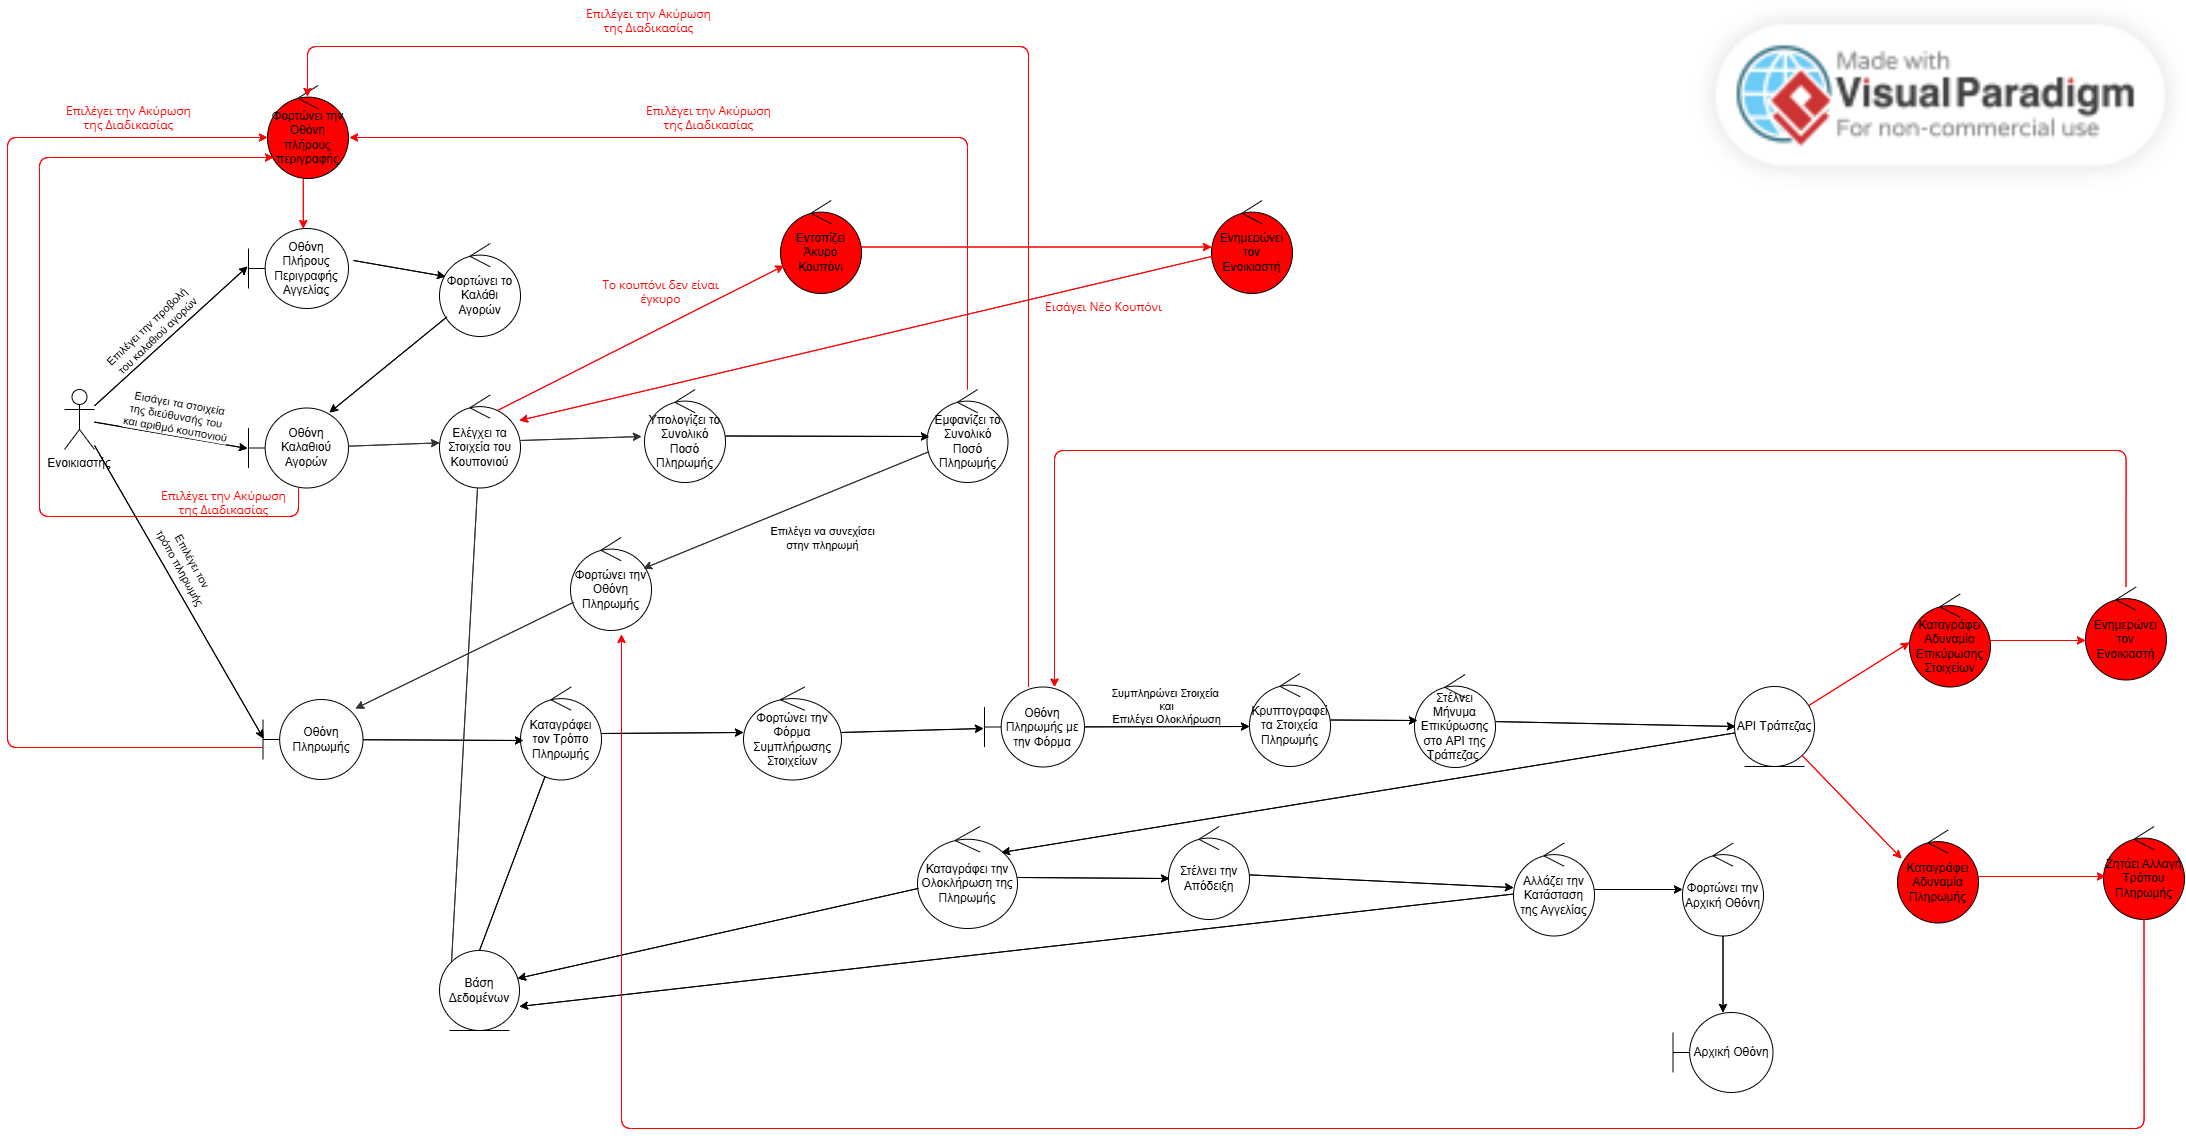
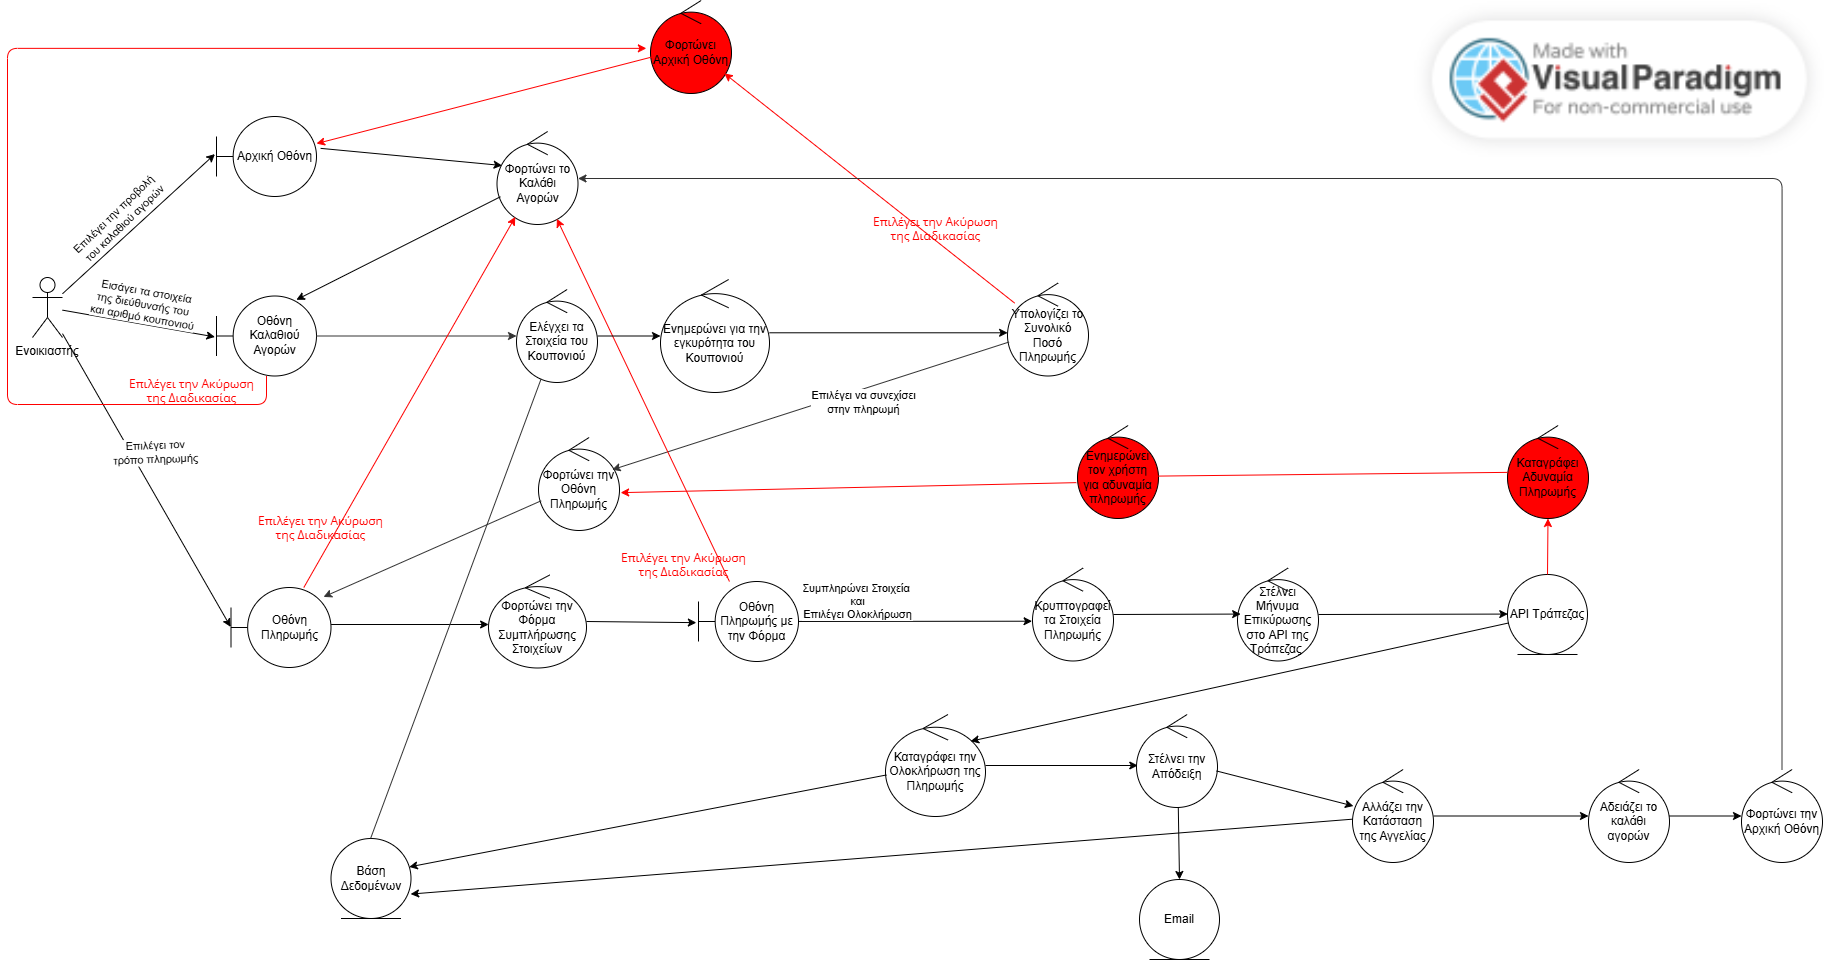
Changes and final payment

diff --git a/v0.3/UC_Payment/use_case.md b/v0.3/UC_Payment/use_case.md
@@ -1,35 +1,31 @@
 Περίπτωση Χρήσης 3: Πληρωμή
 
 Βήματα Happy Path:
-1. Ο ενοικιαστής επιλέγει την προβολή του καλαθιού αγορών
-2. Το σύστημα μεταβιβάζει τον ενοικιαστή στο καλάθι αγορών
-3. Ο ενοικιαστής συμπληρώνει τη διεύθυνσή του και αριθμό κουπονιού
-4. Το σύστημα ελέγχει τα στοιχεία του κουπονιού στη βάση δεδομένων
-5. Το σύστημα υπολογίζει και εμφανίζει το συνολικό ποσό συμπεριλαμβανομένου του κουπουνιού και των εξόδων αποστολής
-6. Ο ενοικιαστής επιλέγει τη συνέχεια προς πληρωμή
-7. Το σύστημα μεταβιβάζει τον χρήστη στην πληρωμή και εμφανίζει επιλογές πληρωμής
-8. Ο ενοικιαστής επιλέγει τον τρόπο πληρωμής
-9. Το σύστημα καταγράφει τον τρόπο που επέλεξε ο χρήστης στη βάση δεδομένων
-10. Το σύστημα εμφανίζει στον χρήστη τη φόρμα συμπλήρωσης των στοιχείων της κάρτας του
+1.  Ο ενοικιαστής επιλέγει την προβολή του καλαθιού αγορών
+2.  Το σύστημα μεταβιβάζει τον ενοικιαστή στο καλάθι αγορών
+3.  Ο ενοικιαστής συμπληρώνει τη διεύθυνσή του και αριθμό κουπονιού
+4.  Το σύστημα ελέγχει τα στοιχεία του κουπονιού στη βάση δεδομένων
+5.  Το σύστημα ενημερώνει τον ενοικιαστή για την εγκυρότητα του κουπονιού
+6.  Το σύστημα υπολογίζει το συνολικό ποσό συμπεριλαμβανομένου του κουπουνιού και των εξόδων αποστολής
+7.  Ο ενοικιαστής επιλέγει τη συνέχεια προς πληρωμή
+8.  Το σύστημα μεταβιβάζει τον χρήστη στην πληρωμή και εμφανίζει επιλογές πληρωμής
+9.  Ο ενοικιαστής επιλέγει τον τρόπο πληρωμής
+10. Το σύστημα εμφανίζει στον χρήστη τη φόρμα συμπλήρωσης των στοιχείων του
 11. Ο ενοικιαστής συμπληρώνει τα στοιχεία του και επιλέγει ολοκλήρωση
 12. Το σύστημα κρυπτογραφεί τα στοιχεία πληρωμής
 13. Το σύστημα στέλνει αίτημα επικύρωσης στο API της τράπεζας με τα στοιχεία συναλλαγής
 14. Το σύστημα καταγράφει στη βάση δεδομένων την ολοκλήρωση της πληρωμής
 15. Το σύστημα στέλνει την απόδειξη πληρωμής στον ενοικιαστή
 16. Το σύστημα αλλάζει στη βάση δεδομένων την κατάσταση της αγγελίας σε μη διαθέσιμη
-17. Το σύστημα μεταβιβάζει τον ενοικιαστή στην Αρχική Οθόνη
+17. Το σύστημα αδειάζει το καλάθι αγορών του χρήστη
+18. Το σύστημα μεταβιβάζει τον ενοικιαστή στην Αρχική Οθόνη
 
 Εναλλακτικές Ροές:
-1. Αποτυχία πληρωμής (από βήμα 14 της βασικής)
+1. Αποτυχία πληρωμής (από βήμα 15 της βασικής)
 3.1.1 Το σύστημα καταγράφει αδυναμία πληρωμής από το API 
 3.1.2 Το σύστημα ενημερώνει τον ενοικιαστή να διορθώσει τα στοιχεία του 
 3.1.3 Επιστροφή στο βήμα 8 της βασικής ροής
 
-2. Ο ενοικιαστής αλλάζει γνώμη (από βήμα 3, 6, 8 και 11 της βασικής)
+2. Ο ενοικιαστής αλλάζει γνώμη (από βήμα 3, 7, 9 και 11 της βασικής)
 3.2.1 Ο ενοικιαστής επιλέγει να επιστρέψει πίσω, χωρίς να κάνει την κράτηση
 3.2.2 Το σύστημα μεταφέρει τον ενοικιαστή στην αρχική σελίδα
-
-3. Μη έγκυρο κουπόνι (από βήμα 4 της βασικής)
-3.3.1 Το σύστημα εντοπίζει ότι ο κωδικός κουπονιού δεν είναι έγκυρος
-3.3.2 Το σύστημα ενημερώνει τον ενοικιαστή ότι το κουπόνι δεν είναι έγκυρο 
-3.3.3 Επιστροφή στο βήμα 3 της βασικής ροής
